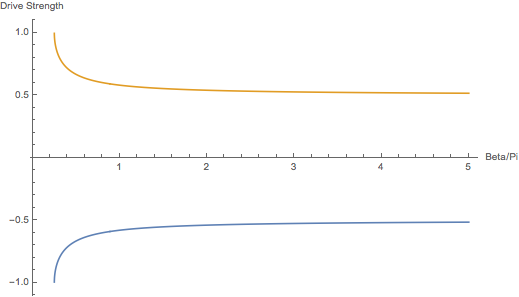
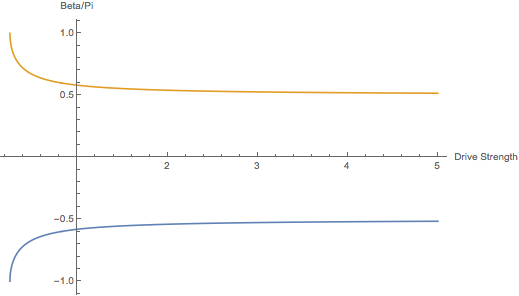
Optional title page, more mean field stuff, figures etc.

diff --git a/TeX/Literature Review/CarmichaelPaperSummary.tex b/TeX/Literature Review/CarmichaelPaperSummary.tex
@@ -21,6 +21,23 @@ in which the Rabi splitting between the upper and lower dressed states is clear.
 
 We now consider the effect of an external drive tuned to the $\ket{G} \rightarrow \ket{E_{1, U/L}}$ transition\footnote{Drive frequencies at multiphoton resonances induce the same effect} (where $\ket{G}$ is the coincident dressed ground state $\ket{E_{0, -}} = \kettens{0}{-}$) with frequency $\omega_D = \hbar \omega_0 \pm \hbar g$.
 The $\kettens{1}{U/L} \rightarrow \kettens{2}{U/L}$ step of the Jaynes Cummings ladder is now detuned from the drive by $E_{2, U/L} - E_{1, U/L} - \hbar \omega_D =  \mp(2-\sqrt{2}) \hbar g$. Thus for sufficiently large g(and sufficiently small linewidth), the upper steps of the ladder are inaccessible, and the Jaynes Cumming system behaves as a two-level system until the photon is reemitted through some loss process. This is the photon blockade effect.
+\subsubsection{Large n detuning approximation}
+Given a driving field as above, the upper and lower path rungs (n, n+1, ..) will be detuned 
+\begin{align}
+	\Delta E_u = \hbar g (\sqrt{n}-\sqrt{n-1}) \\
+	\Delta E_l = -\hbar g (\sqrt{n}-\sqrt{n-1})
+\end{align}
+approximated for large n by
+\begin{align}
+	\Delta E_u &= \hbar g \sqrt{n} \left (1-\sqrt{\frac{n-1}{n}} \right ) \\
+	&= \hbar g \sqrt{n} \left (1-\sqrt{1-\frac{1}{n}} \right ) \\
+	& \approx \hbar g \sqrt{n} \left ( 1- \left ( 1 - \frac{1}{2n} \right ) \right ) \\ 
+	&= \frac{\hbar g}{2 \sqrt{n}} 
+\end{align}
+and
+\begin{equation}
+	\Delta E_l = -\frac{\hbar g}{2 \sqrt{n}}
+\end{equation}
 
 The author now considers the Jaynes Cummings oscillator driven by a coherent field. Transformed to an interaction picture, the Hamiltonian for the driven cavity mode \footnote{The driven qubit can be recovered via a transformation \autocite{Alsing1999}} is 
 \begin{equation}
@@ -66,16 +83,16 @@ and from \cref{eq:pseudospin}
 \implies \frac{d \zeta}{dt} &= -\frac{g^2}{\kappa} (1-\zeta^2)
 \end{align}
 We recover the non exponential decay of neoclassical radiation theory
-\begin{figure}[H]
+\begin{figure}
  	\centering
  	\includegraphics[width=0.5\textwidth]{Images/NeoclassicalDecay.png}
- 	\caption{Non-exponential decay of $\zeta$, $\frac{g}{\kappa} = 50, \zeta(0) = 0$} \label{fig:neoclassical}
+ 	\caption{Non-exponential decay of $\zeta$, $\frac{g}{\kappa} = 50, \zeta(0) \approx 1$} \label{fig:neoclassical}
 \end{figure}
 \subsubsection{Critical Point}
 We consider the equations in the steady state with the field adiabatically eliminated and the detuning zero, after which remain:
 \begin{align}
 	-ig \beta -i \Epsilon &= 0 \\
-	ig\alpha \zeta &= 0 \\
+	ig\alpha \zeta &= 0 
 \end{align}
 from which two branches of solutions are seen $\rightarrow \zeta = 0$ or $\alpha = 0$. We take $\alpha = 0$ and from \cref{eq:alpha} and \cref{eq:pseudospin} 
 \begin{align}
@@ -91,7 +108,7 @@ with $\alpha$ a solution to
 \begin{equation}
 	\alpha = -i \Epsilon\left ( \kappa \pm i \frac{g}{2|\alpha|} \right )^{-1}
 \end{equation}
-\begin{figure}[H]
+\begin{figure}
 	\begin{minipage}{.5\linewidth}
 		\centering
 		\includegraphics[width=1\textwidth]{Images/MeanFieldBelowCritical.png}
@@ -106,21 +123,21 @@ with $\alpha$ a solution to
 	\end{minipage}
 	\caption{$\alpha$ and $\zeta$ as the drive strength $\Epsilon$ moves up to through and beyond the critical point}
 \end{figure}
-in \cref{fig:alpha} the phase bistability above the critical point is obvious. The two $\alpha$ solution branches start coincident ($\pi$ and $-\pi$) at drive strengths just above critical and quickly move to opposite sides of the Bloch sphere ($-\frac{\pi}{2}$ and $\frac{\pi}{2}$)
+in \cref{fig:alpha} the phase bistability above the critical point is obvious. The two $\beta$ solution branches start coincident in phase ($\pi$ and $-\pi$) at drive strengths just above critical and quickly move to opposite sides of the Bloch sphere ($-\frac{\pi}{2}$ and $\frac{\pi}{2}$). 
 
-Steady states of the neoclassical equations for non-zero detuning $\Delta \omega$ are given by:
+The phase of $\beta$ above the critical point follows the phase of $\alpha$, either aligned or antialigned. This spontaneous development of phase bistability Alsing and Carmichael call "Spontaneous Dressed State Polarisation" \autocite{Alsing1999}. Referred to the fully quantum model, each of the two phases corresponds to a the system ascending different sets of rungs of the Jaynes Cummings ladder, either $\ket{E_{n, U}}$ or $\ket{E_{n, L}}$
+\subsubsection{Non-zero detuning}
+Solving \cref{eq:alpha}, \cref{eq:beta}, \cref{eq:zeta} in the steady state gives
 \begin{align}
 	\alpha& = i \Epsilon\frac{1}{[\kappa-i(\Delta \omega \mp sgn(\Delta \omega) \frac{g^2}{\sqrt{\Delta \omega^2 +4g^2 |\alpha|^2}})]} \\
-	\beta& = \pm sgn(\Delta \omega) \frac{g |\alpha|}{\sqrt{\Delta \omega^2 + g^2 |\qexp{\ann|}|^2}}\\
+	\beta& = \pm sgn(\Delta \omega) \frac{g \alpha}{\sqrt{\Delta \omega^2 + 4 g^2 |\alpha|^2}}\\
 	\zeta& = \mp \sqrt{1-4|\beta|^2}
 \end{align}
 the expression for $\alpha$ is a Lorentzian, in which is obvious a nonlinear dispersion which diverges as $|\alpha|^2 \rightarrow 0$
 
-The author then proceeds to discuss the differences between this model and a similar one in which a lattice of cavities is treated, which forms a direct analogy to particular quantum phase transition encountered in condensed matter physics.
+\subsection{Computationally Solving the Master Equation}
 
-\subsection{Spontaneous Dressed-State Polarization}
-
-The author develops an earlier paper \autocite{Alsing1999} in which he and Alsing report a phenomenon which they called "spontaneous dressed state polarization" - the formation of a phase bistability (the above mentioned aligned or antialigned bloch vector) when the system is driven beyond the critical point. The extension in this paper is to further classify the fixed point as an organising centre for the breakdown of the photon blockade phenomenon, which is to say that the fixed point is an attractor in the system phase space. 
+The extension of \autocite{Alsing1999} in this paper is to further classify the fixed point at $\frac{2\Epsilon}{g}$ as an organising centre for the breakdown of the photon blockade phenomenon, which is to say that the fixed point is an attractor in the system phase space. 
 
 This is done by truncating the expansion of the density matrix (this is discussed in \autocite{Savage1988})and solving it using a Runge-Kutta algorithm.The author explains the split Lorentzians in \autocite[Figure 1]{Carmichael2015} via the two distinct Jaynes Cumming ladders and their being climbed by correctly detuned photons. The equal magnitude of each peak is a result of the independence of the two ladders at for high drive strength. Interaction between the ladders via spontaneous emission is treated in \autocite[Section V]{Carmichael2015}
 

diff --git a/Mathematica/NeoclassicalDecay.m b/Mathematica/NeoclassicalDecay.m
@@ -1,52 +1,99 @@
 (* ::Package:: *)
 
 (* ::Input:: *)
+(*(*Nonexponential Decay*)*)
 (*Manipulate[Plot[Evaluate[y[x]/.NDSolve[{y'[x] ==-(g^2/k)(1-(y[x])^2),y[0]== 0.999},y,{x,  0,2}]], {x, 0, 2}, PlotRange -> Full, AxesLabel -> {"time", "zeta"} ], {g, 0.001, 10, 0.001}, {k, 0.001, 10, 0.001}]*)
 
 
 (* ::Input:: *)
-(*Plot[Sqrt[1-(2e/0.111)^2], {e, 0, (0.111/2)}, PlotRange -> Full, AxesLabel ->{"Epsilon", "Zeta"} ]*)
+(*Plot[Sqrt[1-(2e/0.5)^2], {e, 0, (0.5/2)}, PlotRange -> Full, AxesLabel ->{"Epsilon", "Zeta"} ]*)
 
 
-(* ::Input:: *)
-(*Manipulate[{ToRules[Quiet@Reduce[alpha == -I*e(1/(kappa-I*(g/(2*Abs[alpha])))), alpha, Complexes]]}, {e, 0, 100}, {kappa, 0, 10, 0.01}, {g, 0,10, 0.01}]*)
-
-
-(* ::Input:: *)
-(*fplus[e_] :=alpha /.{ToRules[Quiet@Reduce[alpha == -I*e(1/(0.01+I*(0.5/(2*Abs[alpha])))), alpha, Complexes]]}[[1]]*)
-(*fminus[e_]:= alpha /.{ToRules[Quiet@Reduce[alpha == -I*e(1/(0.01-I*(0.5/(2*Abs[alpha])))), alpha, Complexes]]}[[2]]*)
-
-
-(* ::Input:: *)
-(*bplusplus[e_] := (fplus[e]/(2*Abs[fplus[e]]))*)
-(*bminusminus[e_] := -(fminus[e]/(2*Abs[fminus[e]]))*)
-
-
-(* ::Input:: *)
-(*Plot[{Arg[bplusplus[e]]/Pi, Arg[bminusminus[e]]/Pi}, {e, 0.250001, 5} ,  PlotRange -> Full, AxesLabel -> {"Beta/Pi", "Drive Strength"}]*)
-(**)
-(**)
-
-
-(* ::Input:: *)
-(*f[e_] := PolarPlot[0.5, {theta, Arg[bplusplus[0.25000001]], Arg[bplusplus[0.25000002+e]]}, PlotRange->All, PlotStyle -> Orange, AxesLabel -> {"Re[beta]", "Im[beta]"}]*)
-
-
-(* ::Input:: *)
+(* ::Text:: *)
 (* *)
 
 
 (* ::Input:: *)
-(*g[e_]:= PolarPlot[0.5, {theta, Arg[bminusminus[0.25000001]], Arg[bminusminus[0.25000002+e]]}, PlotRange->All, AxesLabel -> {"Re[beta]", "Im[beta]"}]*)
+(*(*Neoclassical Steady State Solutions to the Maxwell Bloch equations*)*)
+(**)
+(*NewSign[e_] :=*)
+(*Piecewise[{{Sign[e], e!=0}, {1, e==0}}]*)
+(*(*Piecewise sign function making zero positive*)*)
 
 
 (* ::Input:: *)
-(*q =Table[Show[g[e], f[e]], {e, 0, 4, 0.05}]*)
+(*alphaeqnnodet[e_, plusminus_] :=*)
+(* alpha == -I*drive*If[plusminus=="+", *)
+(*(kappa+I*(g/(2*Abs[alpha])))^-1,*)
+(*(kappa-I*(g/(2*Abs[alpha])))^-1] /.*)
+(*{drive ->e, kappa->0.01, g->0.5}*)
 
 
 (* ::Input:: *)
-(*Export["PhaseCurve.avi",q] *)
+(*alphaeqn[e_, detuning_, plusminus_] :=alpha == -I*drive*If[plusminus =="+", (kappa-I*(det+NewSign[det]*(g^2/(Sqrt[det^2+4*g^2*Abs[alpha]^2]))))^-1, (kappa-I*(det-NewSign[det]*(g^2/(Sqrt[det^2+4*g^2*Abs[alpha]^2]))))^-1] /. {drive->e, det->detuning, g-> 0.5, kappa->0.01}*)
 
 
 (* ::Input:: *)
-(*SystemOpen["PhaseCurve.avi"]*)
+(*alphaplus[e_] := alpha /.{ToRules[Quiet@Reduce[alphaeqnnodet[e, "+"], alpha, Complexes]]}[[1]]*)
+(*alphaminus[e_]:= alpha /.Reverse[{ToRules[Quiet@Reduce[alphaeqnnodet[e, "-"], alpha, Complexes]]}][[1]]*)
+
+
+(* ::Input:: *)
+(*alphaplusdet[e_, detuning_] := alpha /.{ToRules[Quiet@Reduce[alphaeqn[e, detuning, "-"], alpha, Complexes]]}[[1]]*)
+(*alphaminusdet[e_, detuning_]:= alpha /.Reverse[{ToRules[Quiet@Reduce[alphaeqn[e, detuning,  "+"], alpha, Complexes]]}][[1]]*)
+
+
+(* ::Input:: *)
+(*(*Reverse is for consistency between det and no det*)*)
+
+
+(* ::Input:: *)
+(*betaplus[e_] := (alphaplus[e]/(2*Abs[alphaplus[e]]))*)
+(*betaminus[e_] := -(alphaminus[e]/(2*Abs[alphaminus[e]]))*)
+
+
+(* ::Input:: *)
+(* betaplusdet[e_, det_] := NewSign[det]*g*alphaplusdet[e, det]/Sqrt[det^2 + 4*g^2*Abs[alphaplusdet[e, det]]^2]/. g-> 0.5*)
+
+
+(* ::Input:: *)
+(* betaminusdet[e_, det_] := -NewSign[det]*g*alphaminusdet[e, det]/Sqrt[det^2 + 4*g^2*Abs[alphaminusdet[e, det]]^2]/. g-> 0.5*)
+
+
+(* ::Input:: *)
+(*Plot[{Arg[betaplus[e]]/Pi, Arg[betaminus[e]]/Pi}, {e, 0.25001, 4} ,  PlotRange -> Full, AxesLabel -> { "Drive Strength", "Beta/Pi"}]*)
+
+
+(* ::Input:: *)
+(*Plot[{Arg[betaplusdet[e, 1]]/Pi, Arg[betaminusdet[e, 1]]/Pi}, {e, 0.25001, 2} ,  PlotRange -> Full, AxesLabel -> { "Drive Strength", "Beta/Pi"}]*)
+
+
+(* ::Input:: *)
+(*drive = 100000;*)
+(*detuning=0.01;*)
+(*Arg[betaminusdet[drive, detuning]]/Pi*)
+(*Arg[betaplusdet[drive, detuning]]/Pi*)
+
+
+(* ::Text:: *)
+(* *)
+
+
+(* ::Input:: *)
+(*(*Animation of Development of Phase Bistability w/ Increasing Drive*)*)
+
+
+(* ::Input:: *)
+(*up[e_] := PolarPlot[0.5, {theta, Arg[betaplus[0.25000001]], Arg[betaplus[0.25000002+e]]}, PlotRange->All, PlotStyle -> Orange, AxesLabel -> {"Re[beta]", "Im[beta]"}]*)
+
+
+(* ::Input:: *)
+(*down[e_]:= PolarPlot[0.5, {theta, Arg[betaminus[0.25000001]], Arg[betaminus[0.25000002+e]]}, PlotRange->All, PlotStyle->Blue, AxesLabel -> {"Re[beta]", "Im[beta]"}]*)
+
+
+(* ::Input:: *)
+(*Animate[Show[up[e], down[e]], {e, 0, 5}]*)
+
+
+(* ::Input:: *)
+(**)

diff --git a/TeX/Literature Review/LiteratureReview.tex b/TeX/Literature Review/LiteratureReview.tex
@@ -1,12 +1,13 @@
 %Title Data
 \documentclass[reqno]{amsart}
-\title{Literature Review}
+\title{Literature Review \& Project Outline}
 \author{Fergus Barratt}
-
+\date{}
+\thanks{First Supervisor: Marzena Szymanska \\Second Supervisor: Themis Mavrogordatos}
 %Packages
 \usepackage{amsthm}
 \usepackage{mathrsfs}
-\usepackage[margin=1in]{geometry}
+\usepackage[margin=0.7in]{geometry}
 % \usepackage{fullpage}
 \usepackage{graphicx}
 \usepackage[backend=biber, style=ieee]{biblatex}
@@ -18,6 +19,30 @@
 \usepackage{grffile}
 \usepackage{cleveref}
 \graphicspath{ {./Images} }
+
+\makeatletter
+\@addtoreset{section}{part}
+\def\@part[#1]#2{%
+    \ifnum \c@secnumdepth >\m@ne
+      \refstepcounter{part}%
+      \addcontentsline{toc}{part}{\thepart\hspace{1em}#1}%
+    \else
+      \addcontentsline{toc}{part}{#1}%
+    \fi
+    {\parindent \z@ \raggedright
+     \interlinepenalty \@M
+     \normalfont\centering
+     \ifnum \c@secnumdepth >\m@ne
+       \LARGE\bfseries \partname\nobreakspace\thepart
+       \par\nobreak
+     \fi
+     \huge \bfseries #2%
+     \markboth{}{}\par}%
+    \nobreak
+    \vskip 3ex
+    \@afterheading}
+\renewcommand\partname{Section}
+\makeatother
 
 \addbibresource{Bibliography.bib}
 
@@ -39,15 +64,15 @@
 
 \begin{document}
 \maketitle
+%\include{TitlePage}
  %-------------------------------------------------------------------------------------------------------------------------------
 % \todo[inline]{Change HJC section to definition via $\Omega_n$}
 % \todo[inline]{justification of Lindblad form}
 % \todo[inline]{dispersive regime}
 % \todo[inline]{Finish summary of Carmichael paper} 
  %--------------------------------------------------------------------------------------------------------------------------------
-
 \include{ProjectOutline}
-
+\part{Literature Review}
 \section{Introduction\autocite{Breuer2002}}
 Consider a statistical ensemble $\varepsilon$ consisting of a suitably large number N of identically prepared quantum systems
 \begin{equation}

diff --git a/TeX/Literature Review/ProjectOutline.tex b/TeX/Literature Review/ProjectOutline.tex
@@ -1,11 +1,9 @@
 %!TEX root = LiteratureReview.tex
-
-
-\section{Project Outline}
+\part{Project Outline}
+\section{Outline}
 This project investigates a phase bistability in the driven Jaynes Cummings model, and its representation in terms of quasiprobability functions. 
 
 By performing computational simulations and analytical models we plan to investigate the Jaynes-Cummings model from this viewpoint, with particular focus on the dispersive case - i.e. when the cavity and qubit are far detuned from one another. 
-
 \section{Timeline}
 Until Christmas 2015 we will be familiarising ourselves with the driven Jaynes-Cummings model in the resonant case, starting with the paper by Carmichael that is summarised in the Literature Review. Beyond that, we plan to move to the dispersive regime, and compare results from this methodology with those produced by the other Masters student on the project who is producing Monte Carlo simulations of the same system.
 

diff --git a/TeX/Literature Review/TitlePage.tex b/TeX/Literature Review/TitlePage.tex
@@ -1,0 +1,18 @@
+%!TEX root = LiteratureReview.tex
+\begin{titlepage}
+    \begin{center}
+        \vspace*{1cm}
+        
+        \huge Literature Review \& Project Outline
+        
+        \vspace{1.5cm}
+        \normalsize
+        \emph{Fergus Barratt}
+        
+        \vfill
+        \large
+        First Supervisor: Marzena Szymanska\\
+        Second Supervisor: Themis Mavrogordatos
+        
+    \end{center}
+\end{titlepage}
